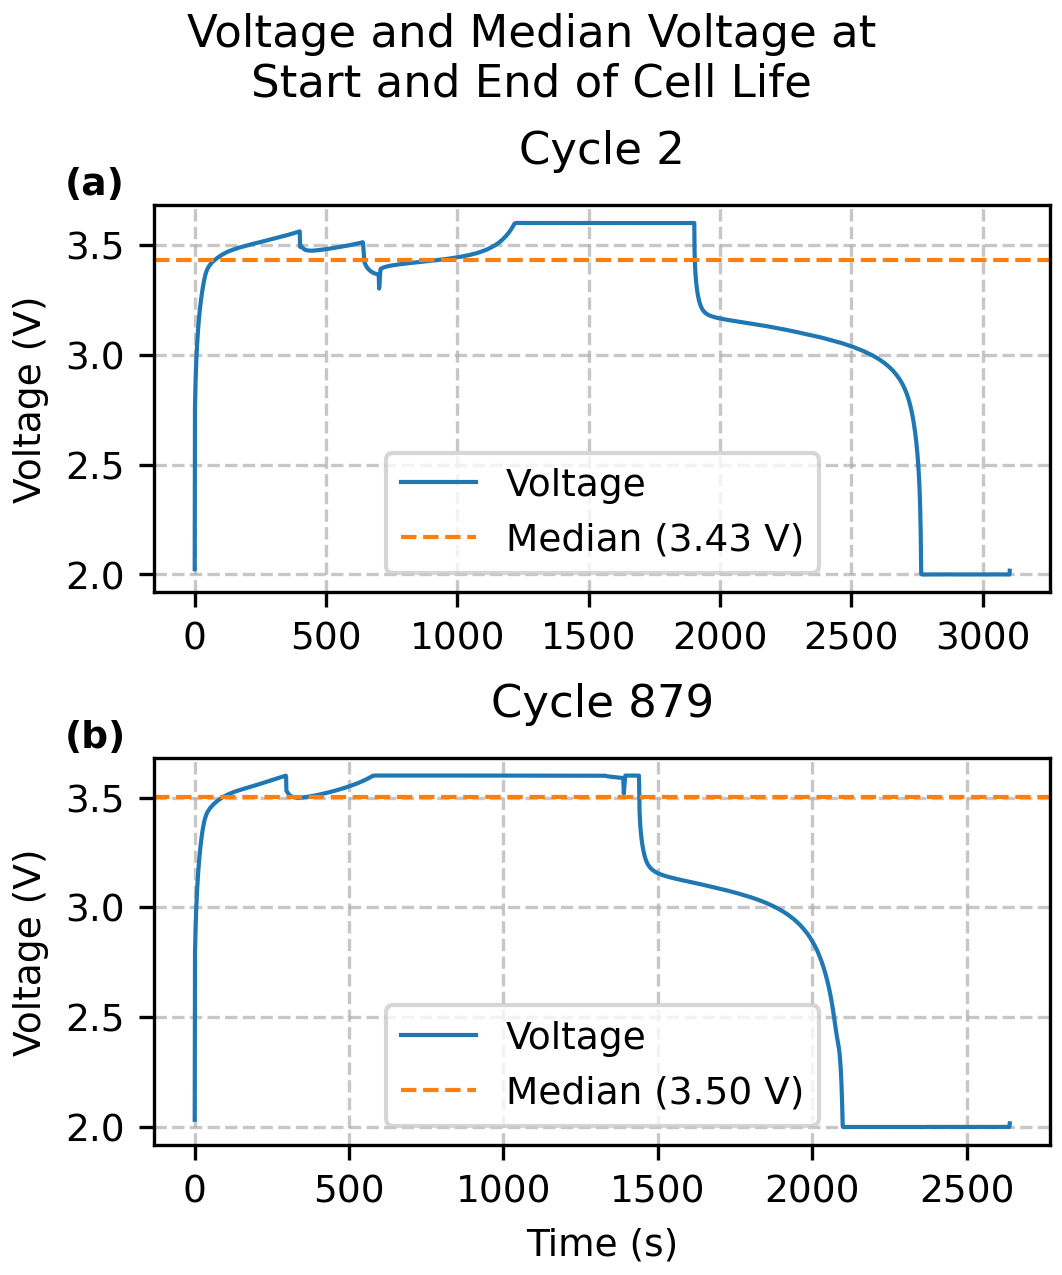
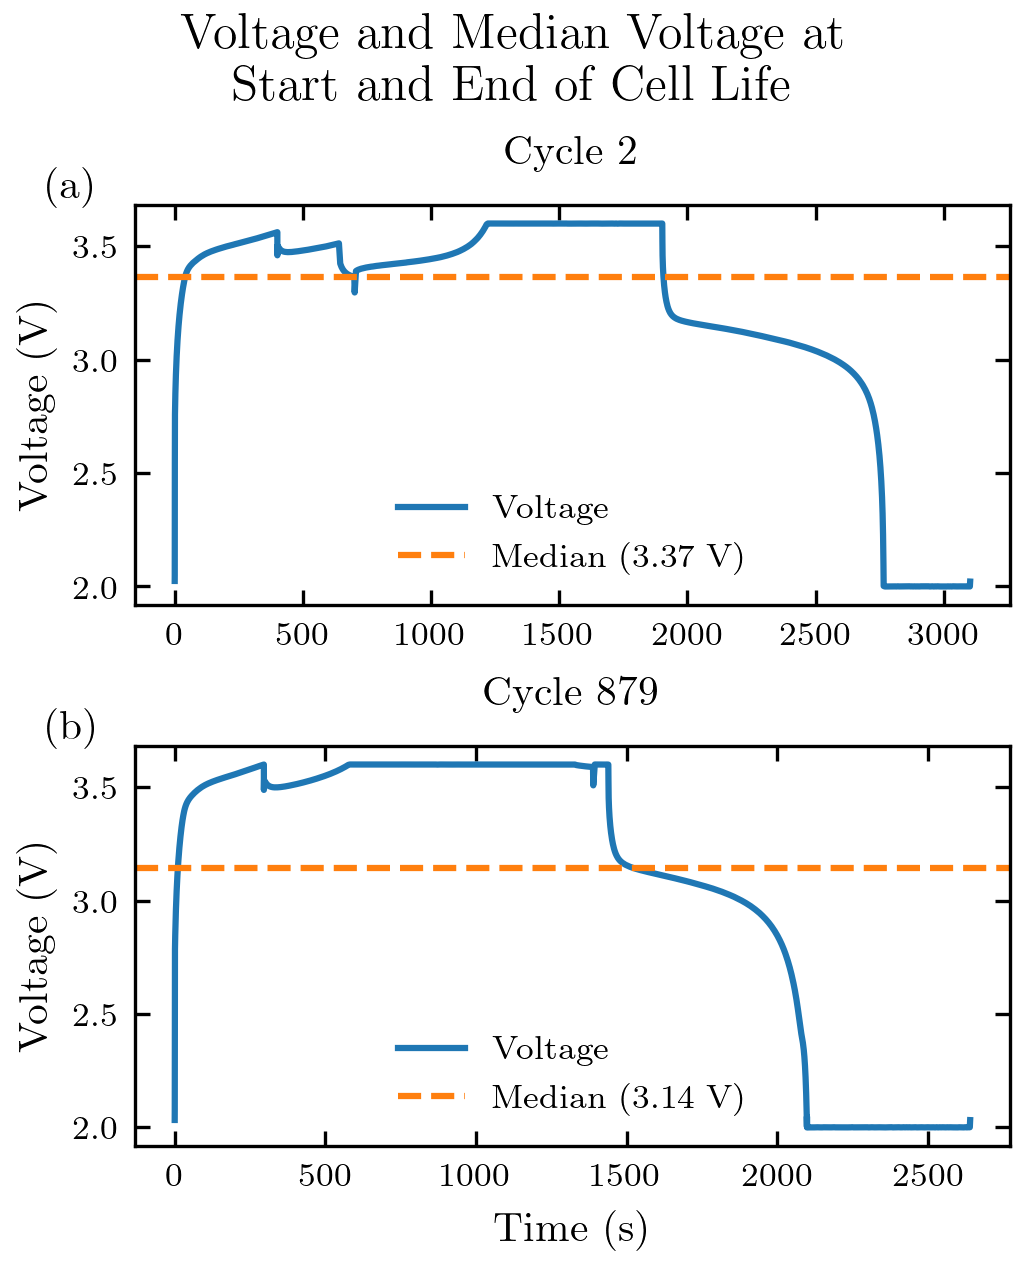
Add figures generated with new config

diff --git a/src/severson_features_soh_rul/modeling/protocol_robustness.py b/src/severson_features_soh_rul/modeling/protocol_robustness.py
@@ -12,7 +12,7 @@ from sklearn.metrics import (
     root_mean_squared_error,
 )
 
-from src.experiments.models import build_extratrees
+from severson_features_soh_rul.modeling.models import build_extratrees
 
 logger = logging.getLogger(__name__)
 
